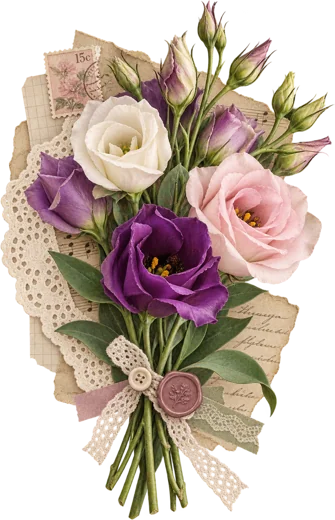
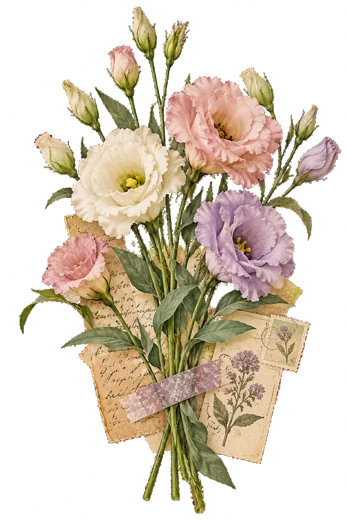
리시안셔스는 이전 그림으로 되돌림 (내일 다시 그릴 예정, 새 그림은 originals/이전에 보관)
Claude-Session: https://claude.ai/code/session_01YHYcoyGnKKXDkP9wrgdwok

diff --git a/index.html b/index.html
@@ -550,7 +550,7 @@ const GRAD_PROMO_URL='https://m.site.naver.com/2k8oh'; // 부자재몰 졸업식
 const GRAD_PROMO_UNTIL='2027-02-28';
 // 등락: 화살표 + 색 + 숫자 (색만으로 뜻을 전하지 않음)
 const dlt=x=>x==null||!isFinite(x)?'<span class="d flat">—</span>':`<span class="d ${sg(x)}">${x>0?'▲':x<0?'▼':'–'} ${Math.abs(x*100).toFixed(1)}%</span>`;
-const IMG_V='202611180856'; // 그림을 바꾸면 이 값을 바꿔서 휴대폰에 남은 옛 그림 대신 새 그림을 받게 합니다
+const IMG_V='202611181802'; // 그림을 바꾸면 이 값을 바꿔서 휴대폰에 남은 옛 그림 대신 새 그림을 받게 합니다
 const STK=(location.pathname.includes('/preview/')?'':'')+'img/';
 // 꽃 그림: img/flowers/<원자료 품목명>.webp (파일 이름 = 원자료 품목명)
 const FLOWER_IMG=new Set(["과꽃", "안시리움", "클레마티스", "맨드라미", "호접란", "공작초", "국화_대국", "금꿩의다리", "고사리", "장미", "국화", "카네이션", "안개", "거베라", "리시안사스", "백합", "수국", "알스트메리아", "칼라", "스타티스", "유칼립투스", "메리골드", "스톡크", "홍가시", "튜립", "라넌큘러스", "프리지아", "델피니움", "코스모스", "작약", "해바라기", "다알리아", "스위트피", "금어초", "아이리스", "글라디올러스", "왁스플라워", "솔리다고", "하이페리콤", "루스커스", "몬스테라", "쿠루쿠마", "석죽", "백일홍", "옥시페탈륨", "천일홍", "베로니카", "스카비오사", "용담", "브바르디아", "후록스", "부들레야", "아미초", "아스그레피아스", "층꽃", "등골나무", "멜라루카", "비부리움", "심포리카르포스", "엽란", "쥐똥나무", "캐모마일", "파니쿰", "편백", "도라지꽃", "루드베키아", "사루비아", "아스파라거스", "헬리옵시스", "꽃고추", "버들나무", "개미취", "연밥", "조팝", "핑크뮬리", "극락조화", "글로리오사", "냉이초", "산더소니아", "설유화", "소철", "솔리다스터", "아네모네", "영춘화", "오니소갈룸", "폴리안테스", "셀륨", "시레네", "여우얼굴", "풍선초", "피토스포륨", "광나무(여정목)", "꽈리", "스모그트리", "알피니아", "조", "아스틸베", "돈나무", "마가렛", "금사철", "상사화", "에키네시아", "에키놉스", "작살나무", "연꽃", "남천", "아카시아", "헬레늄", "아게라덤", "억새풀", "캄파눌라", "마타리", "디디스커스", "리아트리스", "부추꽃", "수선", "케로네", "히야신스", "심비디움", "덴파레", "맥문동", "부들", "부프리움", "수수", "유포로비아", "토마토", "까치밥", "꽃양배추", "데이지", "라이스플라워", "속새", "트리플륨", "명자란", "천조초", "이끼시아", "다정금", "백야", "싸리", "아가판서스", "아그로템마", "에렌지움", "유도화", "종려", "치자", "팜파스", "소재", "절화", "절지", "열매", "허브", "그라스", "호엽란", "기린초", "노무라", "잎안개", "보리사초", "불노초", "신지매", "각구도라", "탑사철", "사철나무", "니겔라", "양란", "야생화", "버버스콤", "비단향", "금잔화", "헬레보루스", "목화", "장미_하젤", "장미_푸에고", "장미_쥬밀리아", "장미_빅토리아", "장미_차밍레이스(sp)", "장미_헤라", "장미_마루시아", "장미_클라린스", "장미_캐롤라인", "장미_웨딩인바이트(sp)", "장미_디온(sp)", "장미_만다라", "장미_굿무드(sp)", "장미_스노우블라썸(sp)", "장미_실바써니(sp)", "장미_일레오스", "장미_실바핑크(sp)", "장미_파엘라", "장미_부루트", "장미_자나(sp)"]);
